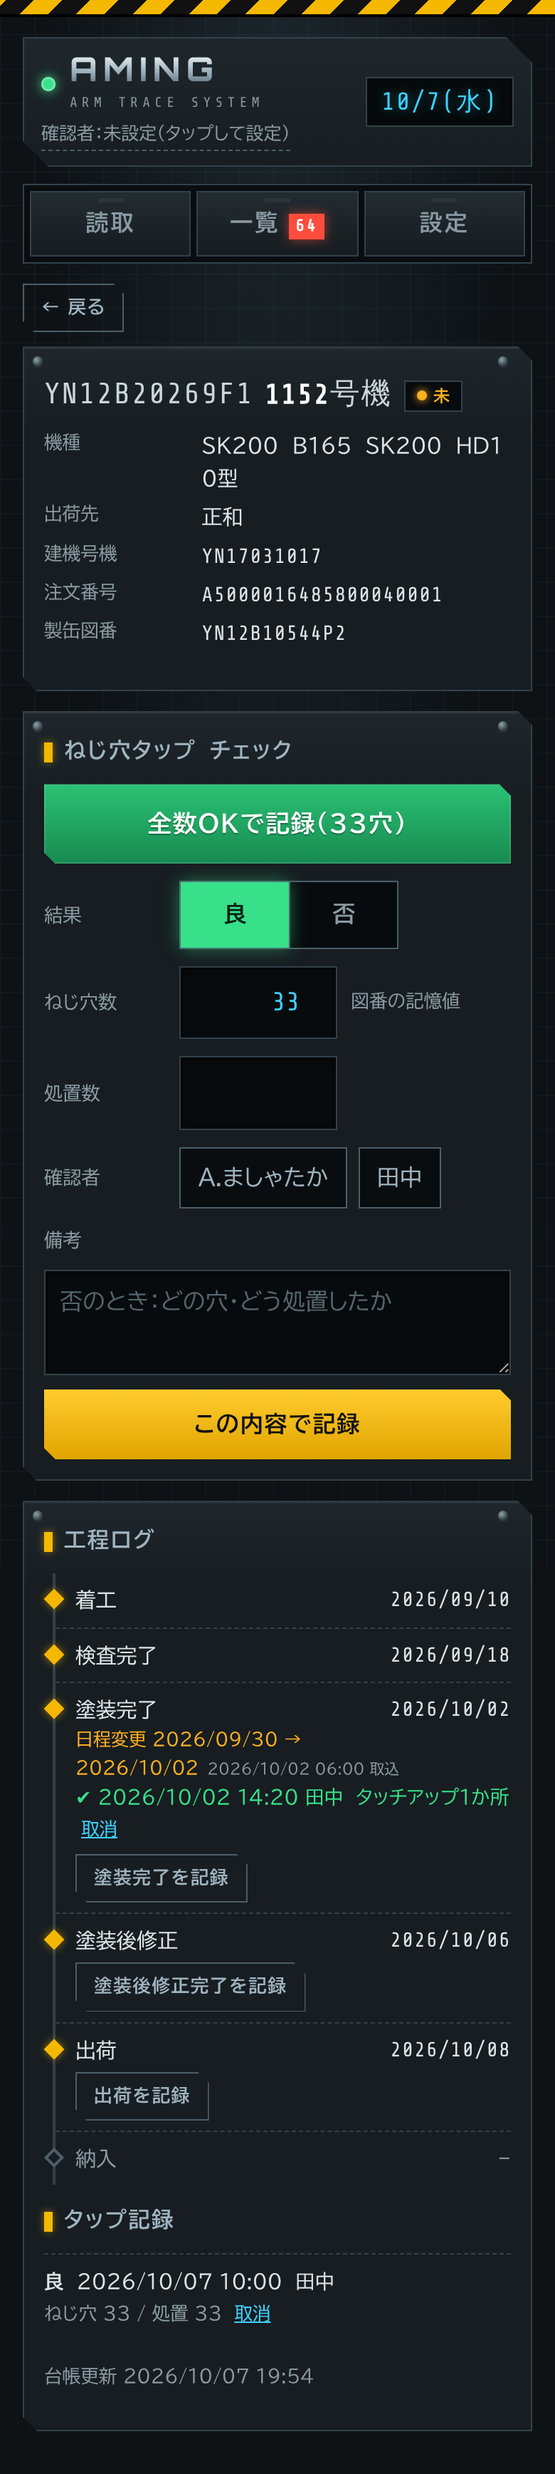
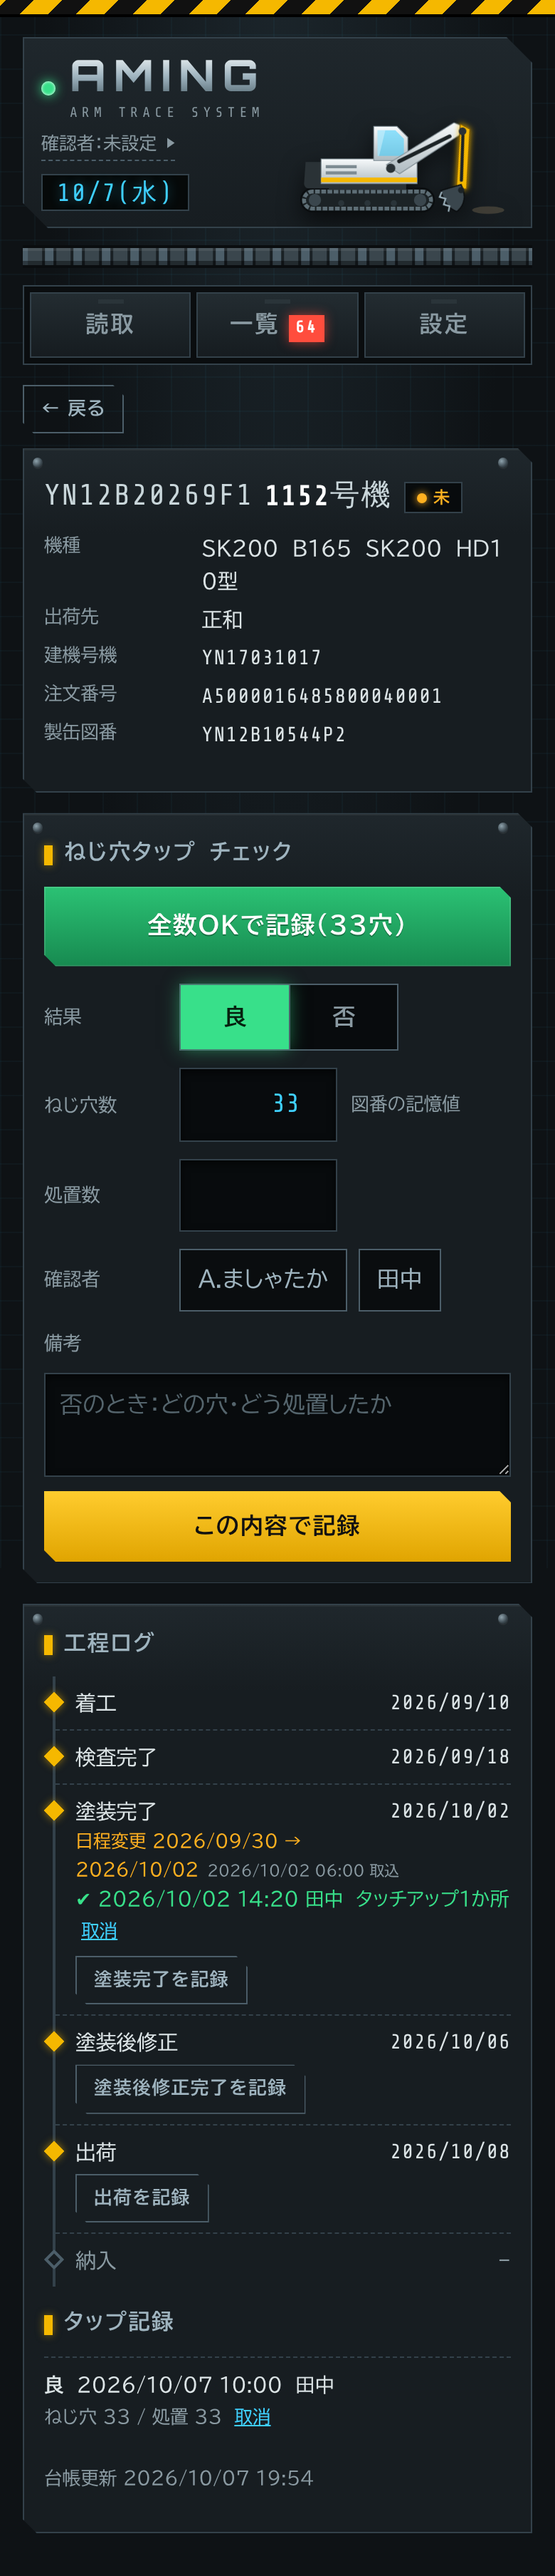
GAS: パワーショベルをイメージした派手なデザインに（掘るアニメ・キャタピラ帯・読取中の全画面アニメ）
Claude-Session: https://claude.ai/code/session_01HFT8mKpU6VM34VUtTFDf1R

diff --git a/gas-paste/index.html b/gas-paste/index.html
@@ -161,18 +161,51 @@ textarea{min-height:64px}
   border:1px solid var(--ok);box-shadow:0 0 12px rgba(56,224,138,.35);font-family:"Share Tech Mono","BIZ UDPGothic",monospace;padding:10px 16px;transition:transform .25s;z-index:30;font-size:.88rem;max-width:90vw}
 #toast:not(.show){visibility:hidden;transition:transform .25s,visibility 0s .25s}
 #toast.show{transform:translateX(-50%) translateY(0)}
+
+/* ===== パワーショベル ===== */
+:root{--body:#E9EEF0;--body2:#B9C4CA;--dark:#2A3236;--arm:#F5B800;--glass:#3FD0FF}
+.hero{display:flex;align-items:flex-end;justify-content:space-between;gap:6px}
+.hero .exc{width:58%;max-width:250px;margin:-14px -6px -6px 0;filter:drop-shadow(0 6px 8px rgba(0,0,0,.6))}
+.exc .trk-tread{animation:tread .8s linear infinite}
+@keyframes tread{to{stroke-dashoffset:-16}}
+.exc .boom{transform-box:view-box;transform-origin:150px 92px;animation:boom 4s ease-in-out infinite alternate}
+.exc .arm{transform-box:view-box;transform-origin:238px 36px;animation:armk 4s ease-in-out infinite alternate}
+.exc .bkt{transform-box:view-box;transform-origin:262px 108px;animation:bkt 4s ease-in-out infinite alternate}
+@keyframes boom{0%{transform:rotate(-10deg)}100%{transform:rotate(6deg)}}
+@keyframes armk{0%{transform:rotate(-18deg)}100%{transform:rotate(16deg)}}
+@keyframes bkt{0%{transform:rotate(-35deg)}100%{transform:rotate(40deg)}}
+.exc .armpart{fill:var(--arm);filter:drop-shadow(0 0 4px rgba(245,184,0,.9))}
+.exc .dust{animation:dust 4s ease-in-out infinite alternate;transform-box:fill-box;transform-origin:center}
+@keyframes dust{0%,70%{opacity:0;transform:scale(.4)}100%{opacity:.7;transform:scale(1.2)}}
+.tracks{height:16px;margin:0 0 12px;background:
+  repeating-linear-gradient(90deg,#3A464D 0 10px,#1A2125 10px 12px,#4C5E69 12px 18px,#1A2125 18px 20px);
+  border-top:2px solid #0A0D0F;border-bottom:2px solid #0A0D0F;box-shadow:inset 0 2px 0 rgba(255,255,255,.08),inset 0 -3px 0 rgba(0,0,0,.4);
+  animation:tracks 1.2s linear infinite}
+@keyframes tracks{to{background-position:20px 0}}
+#busy{position:fixed;inset:0;z-index:40;display:flex;flex-direction:column;align-items:center;justify-content:center;gap:14px;
+  background:radial-gradient(ellipse at center,#18222A 0%,#070A0C 70%)}
+#busy .exc{width:min(86vw,420px)}
+#busy .exc .boom,#busy .exc .arm,#busy .exc .bkt,#busy .exc .dust{animation-duration:1.1s}
+#busy p{margin:0;font-family:"Orbitron","Share Tech Mono",monospace;letter-spacing:.3em;color:var(--yellow);text-shadow:0 0 10px rgba(245,184,0,.6);font-size:1rem}
+#busy small{font-family:"Share Tech Mono","BIZ UDPGothic",monospace;color:var(--sub);letter-spacing:.06em}
+#busy .ground{width:min(86vw,420px);height:8px;margin-top:-18px;background:repeating-linear-gradient(-45deg,var(--yellow) 0 10px,#111 10px 20px)}
+h1{font-size:1.9rem}
+.shoot{min-height:104px;font-size:1.25rem}
+.shoot .bucket{display:inline-block;width:34px;height:26px;vertical-align:-5px;margin-right:8px}
 </style>
 </head>
 <body>
 <div class="hazard"></div>
 <main>
-  <header>
+  <header class="hero">
     <div>
       <div class="brand"><span class="led"></span><div><h1>AMING</h1><small>ARM TRACE SYSTEM</small></div></div>
       <button type="button" id="meBtn" data-act="nav" data-v="settings">確認者：未設定</button>
+      <div style="margin-top:8px"><span id="today"></span></div>
     </div>
-    <div id="today"></div>
+    <div data-exc></div>
   </header>
+  <div class="tracks"></div>
   <nav id="nav">
     <button type="button" data-act="nav" data-v="scan" class="on">読取</button>
     <button type="button" data-act="nav" data-v="list">一覧<span id="todoBadge" class="badge hidden"></span></button>
@@ -180,7 +213,7 @@ textarea{min-height:64px}
   </nav>
 
   <div id="scanView">
-    <button class="shoot" id="shootBtn" type="button">刻印を撮影する<small>黄色い枠に図番と号機の2行を合わせる</small></button>
+    <button class="shoot" id="shootBtn" type="button"><svg class="bucket" viewBox="0 0 34 26"><path d="M2 4 q26 0 30 18 q-16 6 -30 0 z" fill="#111"/><path d="M4 22 l3 4 l4 -3 l4 4 l4 -3 l4 3" fill="none" stroke="#111" stroke-width="2"/></svg>刻印を撮影する<small>黄色い枠に図番と号機の2行を合わせる</small></button>
     <button class="shoot alt" id="pickBtn" type="button">写真を選んで枠で切り抜く</button>
     <input id="cam" type="file" accept="image/*" capture="environment" class="hidden">
     <input id="pick" type="file" accept="image/*" class="hidden">
@@ -214,11 +247,15 @@ textarea{min-height:64px}
   <div id="cropStage"><div id="cropWrap"><img id="cropImg" alt="切り抜く写真"><div id="cropBox"><div class="h tl" data-h="tl"></div><div class="h tr" data-h="tr"></div><div class="h bl" data-h="bl"></div><div class="h br" data-h="br"></div></div></div></div>
   <div class="bar"><button class="btn" id="cropCancel" type="button">やめる</button><button class="btn go" id="cropOk" type="button">この範囲で読む</button></div>
 </div>
+<div id="busy" class="hidden"><div data-exc></div><div class="ground"></div><p id="busyT">READING</p><small id="busyS"></small></div>
 <div id="toast"></div>
 
 <script>
 (() => {
 const $ = id => document.getElementById(id);
+const EXC_SVG = '<svg class="exc" viewBox="0 0 320 160" aria-hidden="true">\n  <defs>\n    <linearGradient id="gBody" x1="0" y1="0" x2="0" y2="1"><stop offset="0" stop-color="#F7FAFB"/><stop offset="1" stop-color="#AEBAC0"/></linearGradient>\n    <linearGradient id="gArm" x1="0" y1="0" x2="1" y2="1"><stop offset="0" stop-color="#FFD54A"/><stop offset="1" stop-color="#E09A00"/></linearGradient>\n  </defs>\n  <!-- キャタピラ -->\n  <rect x="34" y="118" width="172" height="30" rx="15" fill="#1C2326" stroke="#0A0D0F" stroke-width="2"/>\n  <rect x="38" y="122" width="164" height="22" rx="11" fill="none" stroke="#5E6E76" stroke-width="5" stroke-dasharray="6 2" class="trk-tread"/>\n  <circle cx="52" cy="133" r="8" fill="#3A464D"/><circle cx="188" cy="133" r="8" fill="#3A464D"/>\n  <circle cx="86" cy="137" r="4" fill="#2A3439"/><circle cx="120" cy="137" r="4" fill="#2A3439"/><circle cx="154" cy="137" r="4" fill="#2A3439"/>\n  <!-- 旋回体 -->\n  <rect x="70" y="110" width="100" height="10" fill="#2A3236"/>\n  <path d="M40 84 h44 v34 h-40 a6 6 0 0 1 -6 -6 z" fill="#2A3236"/>\n  <path d="M60 80 h118 a6 6 0 0 1 6 6 v26 h-124 z" fill="url(#gBody)" stroke="#7D8B92" stroke-width="1"/>\n  <rect x="66" y="88" width="40" height="4" fill="#7D8B92"/><rect x="66" y="96" width="40" height="4" fill="#7D8B92"/>\n  <rect x="60" y="104" width="124" height="6" fill="#F5B800"/>\n  <!-- キャブ -->\n  <path d="M128 38 h30 l14 14 v30 h-44 z" fill="url(#gBody)" stroke="#7D8B92"/>\n  <path d="M133 43 h23 l11 11 v22 h-34 z" fill="#3FD0FF" opacity=".55"/>\n  <path d="M133 43 h10 l-8 33 h-2 z" fill="#fff" opacity=".35"/>\n  <!-- ブーム → アーム → バケット -->\n  <g class="boom">\n    <path d="M144 88 L226 26 L246 32 L162 98 Z" fill="url(#gBody)" stroke="#7D8B92"/>\n    <path d="M160 82 L222 44" stroke="#1C2326" stroke-width="5" stroke-linecap="round"/>\n    <circle cx="150" cy="92" r="6" fill="#2A3236"/>\n    <g class="arm">\n      <path class="armpart" d="M232 28 L246 30 L268 104 L256 110 Z" stroke="#7A5500" stroke-width="1.2"/>\n      <path d="M240 40 L258 96" stroke="#1C2326" stroke-width="4" stroke-linecap="round"/>\n      <circle cx="238" cy="36" r="5" fill="#2A3236"/>\n      <g class="bkt">\n        <path d="M256 104 q24 4 26 24 q-14 10 -34 2 z" fill="#3A464D" stroke="#0A0D0F" stroke-width="1.5"/>\n        <path d="M250 130 l4 6 l6 -5 l5 6 l6 -5 l5 5" fill="none" stroke="#9FB4BF" stroke-width="2"/>\n        <circle cx="262" cy="108" r="4" fill="#1C2326"/>\n      </g>\n    </g>\n  </g>\n  <ellipse class="dust" cx="276" cy="146" rx="26" ry="6" fill="#8A7A5C"/>\n</svg>';
+document.querySelectorAll("[data-exc]").forEach(el => { el.outerHTML = EXC_SVG; });
+function busy(on, title, sub) { $("busy").classList.toggle("hidden", !on); if (on) { $("busyT").textContent = title || "WORKING"; $("busyS").textContent = sub || ""; } }
 const run = (fn, ...args) => new Promise((res, rej) => google.script.run.withSuccessHandler(res).withFailureHandler(rej)[fn](...args));
 const esc = s => String(s ?? "").replace(/[&<>"]/g, c => ({"&":"&amp;","<":"&lt;",">":"&gt;",'"':"&quot;"}[c]));
 const errMsg = e => (e && e.message || String(e)).replace(/^Error:\s*/, "");
@@ -254,7 +291,7 @@ function show(v) {
   if (v === "settings") renderSettings();
 }
 function renderHead() {
-  $("meBtn").textContent = "確認者：" + (me || "未設定（タップして設定）");
+  $("meBtn").textContent = "確認者：" + (me || "未設定 ▶");
   $("today").textContent = boot.today ? md(boot.today) + "(" + wd(boot.today) + ")" : "";
   const todo = boot.days.filter(d => d.date >= boot.today).slice(0, 4).reduce((s, d) => s + d.todo, 0);
   $("todoBadge").textContent = todo; $("todoBadge").classList.toggle("hidden", !todo);
@@ -491,6 +528,7 @@ async function readCanvas(cv) {
   $("resultSec").scrollIntoView({behavior: "smooth", block: "start"});
   setBusy(true);
   $("status").textContent = "刻印を読み取り中…（10〜30秒）";
+  busy(true, "READING", "刻印を読み取り中…（10〜30秒）");
   try {
     const r = await run("apiRead", await b64(imgs.orig), await b64(imgs.enh), lastArm);
     photoId = r.photoId || "";
@@ -506,7 +544,7 @@ async function readCanvas(cv) {
       armBtn(a, (a.seq ? '<span class="chip">前回の続き番号</span>' : ""), p && p.index === i ? "best" : "").replace('class="az">', `class="az">${"ABCDE"[i]}: `)).join("");
   } catch (e) {
     $("status").textContent = "読み取れませんでした：" + errMsg(e) + "　下の「探す」で手入力もできます。";
-  } finally { setBusy(false); }
+  } finally { setBusy(false); busy(false); }
 }
 
 /* ================= 検索 ================= */

diff --git a/gas/index.html b/gas/index.html
@@ -161,18 +161,51 @@ textarea{min-height:64px}
   border:1px solid var(--ok);box-shadow:0 0 12px rgba(56,224,138,.35);font-family:"Share Tech Mono","BIZ UDPGothic",monospace;padding:10px 16px;transition:transform .25s;z-index:30;font-size:.88rem;max-width:90vw}
 #toast:not(.show){visibility:hidden;transition:transform .25s,visibility 0s .25s}
 #toast.show{transform:translateX(-50%) translateY(0)}
+
+/* ===== パワーショベル ===== */
+:root{--body:#E9EEF0;--body2:#B9C4CA;--dark:#2A3236;--arm:#F5B800;--glass:#3FD0FF}
+.hero{display:flex;align-items:flex-end;justify-content:space-between;gap:6px}
+.hero .exc{width:58%;max-width:250px;margin:-14px -6px -6px 0;filter:drop-shadow(0 6px 8px rgba(0,0,0,.6))}
+.exc .trk-tread{animation:tread .8s linear infinite}
+@keyframes tread{to{stroke-dashoffset:-16}}
+.exc .boom{transform-box:view-box;transform-origin:150px 92px;animation:boom 4s ease-in-out infinite alternate}
+.exc .arm{transform-box:view-box;transform-origin:238px 36px;animation:armk 4s ease-in-out infinite alternate}
+.exc .bkt{transform-box:view-box;transform-origin:262px 108px;animation:bkt 4s ease-in-out infinite alternate}
+@keyframes boom{0%{transform:rotate(-10deg)}100%{transform:rotate(6deg)}}
+@keyframes armk{0%{transform:rotate(-18deg)}100%{transform:rotate(16deg)}}
+@keyframes bkt{0%{transform:rotate(-35deg)}100%{transform:rotate(40deg)}}
+.exc .armpart{fill:var(--arm);filter:drop-shadow(0 0 4px rgba(245,184,0,.9))}
+.exc .dust{animation:dust 4s ease-in-out infinite alternate;transform-box:fill-box;transform-origin:center}
+@keyframes dust{0%,70%{opacity:0;transform:scale(.4)}100%{opacity:.7;transform:scale(1.2)}}
+.tracks{height:16px;margin:0 0 12px;background:
+  repeating-linear-gradient(90deg,#3A464D 0 10px,#1A2125 10px 12px,#4C5E69 12px 18px,#1A2125 18px 20px);
+  border-top:2px solid #0A0D0F;border-bottom:2px solid #0A0D0F;box-shadow:inset 0 2px 0 rgba(255,255,255,.08),inset 0 -3px 0 rgba(0,0,0,.4);
+  animation:tracks 1.2s linear infinite}
+@keyframes tracks{to{background-position:20px 0}}
+#busy{position:fixed;inset:0;z-index:40;display:flex;flex-direction:column;align-items:center;justify-content:center;gap:14px;
+  background:radial-gradient(ellipse at center,#18222A 0%,#070A0C 70%)}
+#busy .exc{width:min(86vw,420px)}
+#busy .exc .boom,#busy .exc .arm,#busy .exc .bkt,#busy .exc .dust{animation-duration:1.1s}
+#busy p{margin:0;font-family:"Orbitron","Share Tech Mono",monospace;letter-spacing:.3em;color:var(--yellow);text-shadow:0 0 10px rgba(245,184,0,.6);font-size:1rem}
+#busy small{font-family:"Share Tech Mono","BIZ UDPGothic",monospace;color:var(--sub);letter-spacing:.06em}
+#busy .ground{width:min(86vw,420px);height:8px;margin-top:-18px;background:repeating-linear-gradient(-45deg,var(--yellow) 0 10px,#111 10px 20px)}
+h1{font-size:1.9rem}
+.shoot{min-height:104px;font-size:1.25rem}
+.shoot .bucket{display:inline-block;width:34px;height:26px;vertical-align:-5px;margin-right:8px}
 </style>
 </head>
 <body>
 <div class="hazard"></div>
 <main>
-  <header>
+  <header class="hero">
     <div>
       <div class="brand"><span class="led"></span><div><h1>AMING</h1><small>ARM TRACE SYSTEM</small></div></div>
       <button type="button" id="meBtn" data-act="nav" data-v="settings">確認者：未設定</button>
+      <div style="margin-top:8px"><span id="today"></span></div>
     </div>
-    <div id="today"></div>
+    <div data-exc></div>
   </header>
+  <div class="tracks"></div>
   <nav id="nav">
     <button type="button" data-act="nav" data-v="scan" class="on">読取</button>
     <button type="button" data-act="nav" data-v="list">一覧<span id="todoBadge" class="badge hidden"></span></button>
@@ -180,7 +213,7 @@ textarea{min-height:64px}
   </nav>
 
   <div id="scanView">
-    <button class="shoot" id="shootBtn" type="button">刻印を撮影する<small>黄色い枠に図番と号機の2行を合わせる</small></button>
+    <button class="shoot" id="shootBtn" type="button"><svg class="bucket" viewBox="0 0 34 26"><path d="M2 4 q26 0 30 18 q-16 6 -30 0 z" fill="#111"/><path d="M4 22 l3 4 l4 -3 l4 4 l4 -3 l4 3" fill="none" stroke="#111" stroke-width="2"/></svg>刻印を撮影する<small>黄色い枠に図番と号機の2行を合わせる</small></button>
     <button class="shoot alt" id="pickBtn" type="button">写真を選んで枠で切り抜く</button>
     <input id="cam" type="file" accept="image/*" capture="environment" class="hidden">
     <input id="pick" type="file" accept="image/*" class="hidden">
@@ -214,11 +247,15 @@ textarea{min-height:64px}
   <div id="cropStage"><div id="cropWrap"><img id="cropImg" alt="切り抜く写真"><div id="cropBox"><div class="h tl" data-h="tl"></div><div class="h tr" data-h="tr"></div><div class="h bl" data-h="bl"></div><div class="h br" data-h="br"></div></div></div></div>
   <div class="bar"><button class="btn" id="cropCancel" type="button">やめる</button><button class="btn go" id="cropOk" type="button">この範囲で読む</button></div>
 </div>
+<div id="busy" class="hidden"><div data-exc></div><div class="ground"></div><p id="busyT">READING</p><small id="busyS"></small></div>
 <div id="toast"></div>
 
 <script>
 (() => {
 const $ = id => document.getElementById(id);
+const EXC_SVG = '<svg class="exc" viewBox="0 0 320 160" aria-hidden="true">\n  <defs>\n    <linearGradient id="gBody" x1="0" y1="0" x2="0" y2="1"><stop offset="0" stop-color="#F7FAFB"/><stop offset="1" stop-color="#AEBAC0"/></linearGradient>\n    <linearGradient id="gArm" x1="0" y1="0" x2="1" y2="1"><stop offset="0" stop-color="#FFD54A"/><stop offset="1" stop-color="#E09A00"/></linearGradient>\n  </defs>\n  <!-- キャタピラ -->\n  <rect x="34" y="118" width="172" height="30" rx="15" fill="#1C2326" stroke="#0A0D0F" stroke-width="2"/>\n  <rect x="38" y="122" width="164" height="22" rx="11" fill="none" stroke="#5E6E76" stroke-width="5" stroke-dasharray="6 2" class="trk-tread"/>\n  <circle cx="52" cy="133" r="8" fill="#3A464D"/><circle cx="188" cy="133" r="8" fill="#3A464D"/>\n  <circle cx="86" cy="137" r="4" fill="#2A3439"/><circle cx="120" cy="137" r="4" fill="#2A3439"/><circle cx="154" cy="137" r="4" fill="#2A3439"/>\n  <!-- 旋回体 -->\n  <rect x="70" y="110" width="100" height="10" fill="#2A3236"/>\n  <path d="M40 84 h44 v34 h-40 a6 6 0 0 1 -6 -6 z" fill="#2A3236"/>\n  <path d="M60 80 h118 a6 6 0 0 1 6 6 v26 h-124 z" fill="url(#gBody)" stroke="#7D8B92" stroke-width="1"/>\n  <rect x="66" y="88" width="40" height="4" fill="#7D8B92"/><rect x="66" y="96" width="40" height="4" fill="#7D8B92"/>\n  <rect x="60" y="104" width="124" height="6" fill="#F5B800"/>\n  <!-- キャブ -->\n  <path d="M128 38 h30 l14 14 v30 h-44 z" fill="url(#gBody)" stroke="#7D8B92"/>\n  <path d="M133 43 h23 l11 11 v22 h-34 z" fill="#3FD0FF" opacity=".55"/>\n  <path d="M133 43 h10 l-8 33 h-2 z" fill="#fff" opacity=".35"/>\n  <!-- ブーム → アーム → バケット -->\n  <g class="boom">\n    <path d="M144 88 L226 26 L246 32 L162 98 Z" fill="url(#gBody)" stroke="#7D8B92"/>\n    <path d="M160 82 L222 44" stroke="#1C2326" stroke-width="5" stroke-linecap="round"/>\n    <circle cx="150" cy="92" r="6" fill="#2A3236"/>\n    <g class="arm">\n      <path class="armpart" d="M232 28 L246 30 L268 104 L256 110 Z" stroke="#7A5500" stroke-width="1.2"/>\n      <path d="M240 40 L258 96" stroke="#1C2326" stroke-width="4" stroke-linecap="round"/>\n      <circle cx="238" cy="36" r="5" fill="#2A3236"/>\n      <g class="bkt">\n        <path d="M256 104 q24 4 26 24 q-14 10 -34 2 z" fill="#3A464D" stroke="#0A0D0F" stroke-width="1.5"/>\n        <path d="M250 130 l4 6 l6 -5 l5 6 l6 -5 l5 5" fill="none" stroke="#9FB4BF" stroke-width="2"/>\n        <circle cx="262" cy="108" r="4" fill="#1C2326"/>\n      </g>\n    </g>\n  </g>\n  <ellipse class="dust" cx="276" cy="146" rx="26" ry="6" fill="#8A7A5C"/>\n</svg>';
+document.querySelectorAll("[data-exc]").forEach(el => { el.outerHTML = EXC_SVG; });
+function busy(on, title, sub) { $("busy").classList.toggle("hidden", !on); if (on) { $("busyT").textContent = title || "WORKING"; $("busyS").textContent = sub || ""; } }
 const run = (fn, ...args) => new Promise((res, rej) => google.script.run.withSuccessHandler(res).withFailureHandler(rej)[fn](...args));
 const esc = s => String(s ?? "").replace(/[&<>"]/g, c => ({"&":"&amp;","<":"&lt;",">":"&gt;",'"':"&quot;"}[c]));
 const errMsg = e => (e && e.message || String(e)).replace(/^Error:\s*/, "");
@@ -254,7 +291,7 @@ function show(v) {
   if (v === "settings") renderSettings();
 }
 function renderHead() {
-  $("meBtn").textContent = "確認者：" + (me || "未設定（タップして設定）");
+  $("meBtn").textContent = "確認者：" + (me || "未設定 ▶");
   $("today").textContent = boot.today ? md(boot.today) + "(" + wd(boot.today) + ")" : "";
   const todo = boot.days.filter(d => d.date >= boot.today).slice(0, 4).reduce((s, d) => s + d.todo, 0);
   $("todoBadge").textContent = todo; $("todoBadge").classList.toggle("hidden", !todo);
@@ -491,6 +528,7 @@ async function readCanvas(cv) {
   $("resultSec").scrollIntoView({behavior: "smooth", block: "start"});
   setBusy(true);
   $("status").textContent = "刻印を読み取り中…（10〜30秒）";
+  busy(true, "READING", "刻印を読み取り中…（10〜30秒）");
   try {
     const r = await run("apiRead", await b64(imgs.orig), await b64(imgs.enh), lastArm);
     photoId = r.photoId || "";
@@ -506,7 +544,7 @@ async function readCanvas(cv) {
       armBtn(a, (a.seq ? '<span class="chip">前回の続き番号</span>' : ""), p && p.index === i ? "best" : "").replace('class="az">', `class="az">${"ABCDE"[i]}: `)).join("");
   } catch (e) {
     $("status").textContent = "読み取れませんでした：" + errMsg(e) + "　下の「探す」で手入力もできます。";
-  } finally { setBusy(false); }
+  } finally { setBusy(false); busy(false); }
 }
 
 /* ================= 検索 ================= */

diff --git a/CLAUDE.md b/CLAUDE.md
@@ -14,7 +14,7 @@
 | `gas/03_フォント見本.js` | 刻印機 Telesis TMC470 の11x16ドットフォント見本（PNG base64）。AI読取の1枚目に添える。元画像 `data/telesis_font_11x16.png` |
 | `gas/03_通知.js` | `notifyUnchecked`：次の出荷日（台帳上の翌出荷日）分で「良」がないアームをメール。`TRACK_FROM`（運用開始日 2026/10/08）より前の出荷は対象外 |
 | `gas/04_テスト.js` | GASエディタで実行する確認用関数 |
-| `gas/index.html` | 画面。見た目はダーク×メカ（ハザード帯・面取りパネル・ボルト・LED・Orbitron/Share Tech Mono）。スクショ `docs/screen_*.png`。（読取／一覧／記録／設定＝自分の名前選択とCSVのみ。確認者の追加は設定シート、取込はトリガー任せ）。カメラ枠・切り抜き・凹凸強調は旧版から移植 |
+| `gas/index.html` | 画面。見た目はダーク×メカ×パワーショベル（ハザード帯・面取りパネル・ボルト・LED・キャタピラ帯・ヘッダーにSVGショベル＝ブーム/アーム/バケットが掘るアニメ、アームだけ黄色発光。AI読取中は全画面ショベル `#busy`）。ロゴ等は使わずオリジナル描画。スクショ `docs/screen_*.png`。（読取／一覧／記録／設定＝自分の名前選択とCSVのみ。確認者の追加は設定シート、取込はトリガー任せ）。カメラ枠・切り抜き・凹凸強調は旧版から移植 |
 | `test/gas.test.js` | 照合・Excel解析・画面(jsdom＋google.script.runモック)のテスト |
 
 - 台帳キー＝`図番_号機`。元Excel「出荷明細」シート（ヘッダー5行目、A列「注文番号（写し）」）。3年分約8,400行→アーム7,918本（ブームブラケット等は `EXCLUDE_KISHU` で除外、図番+号機の重複63件は出荷日が新しい方を採用し「要確認」シートへ）
